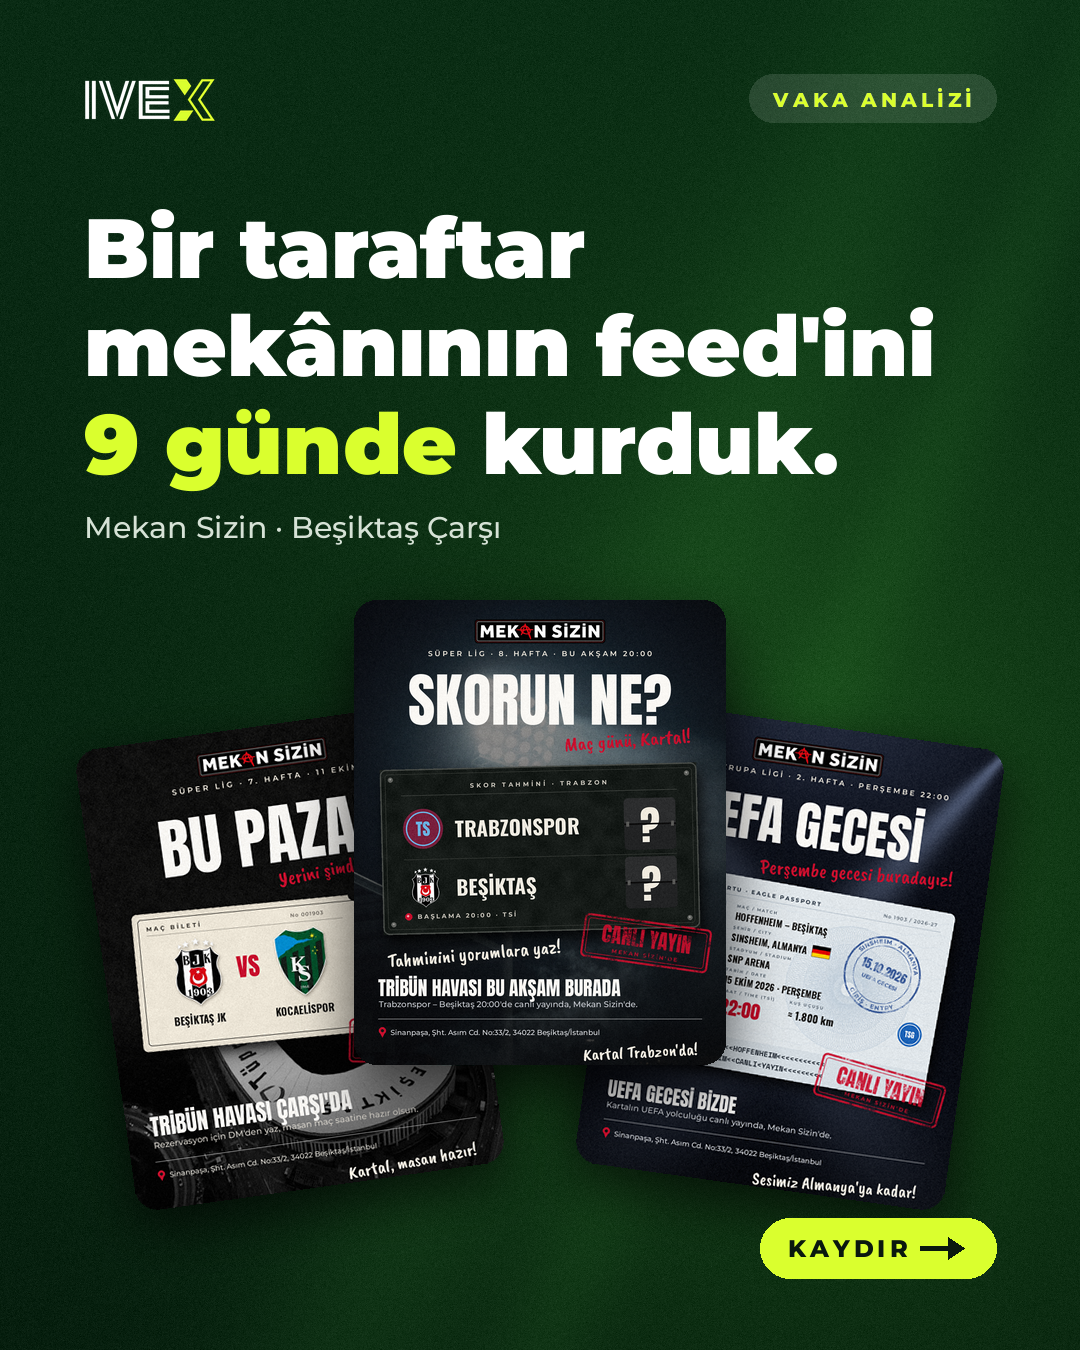
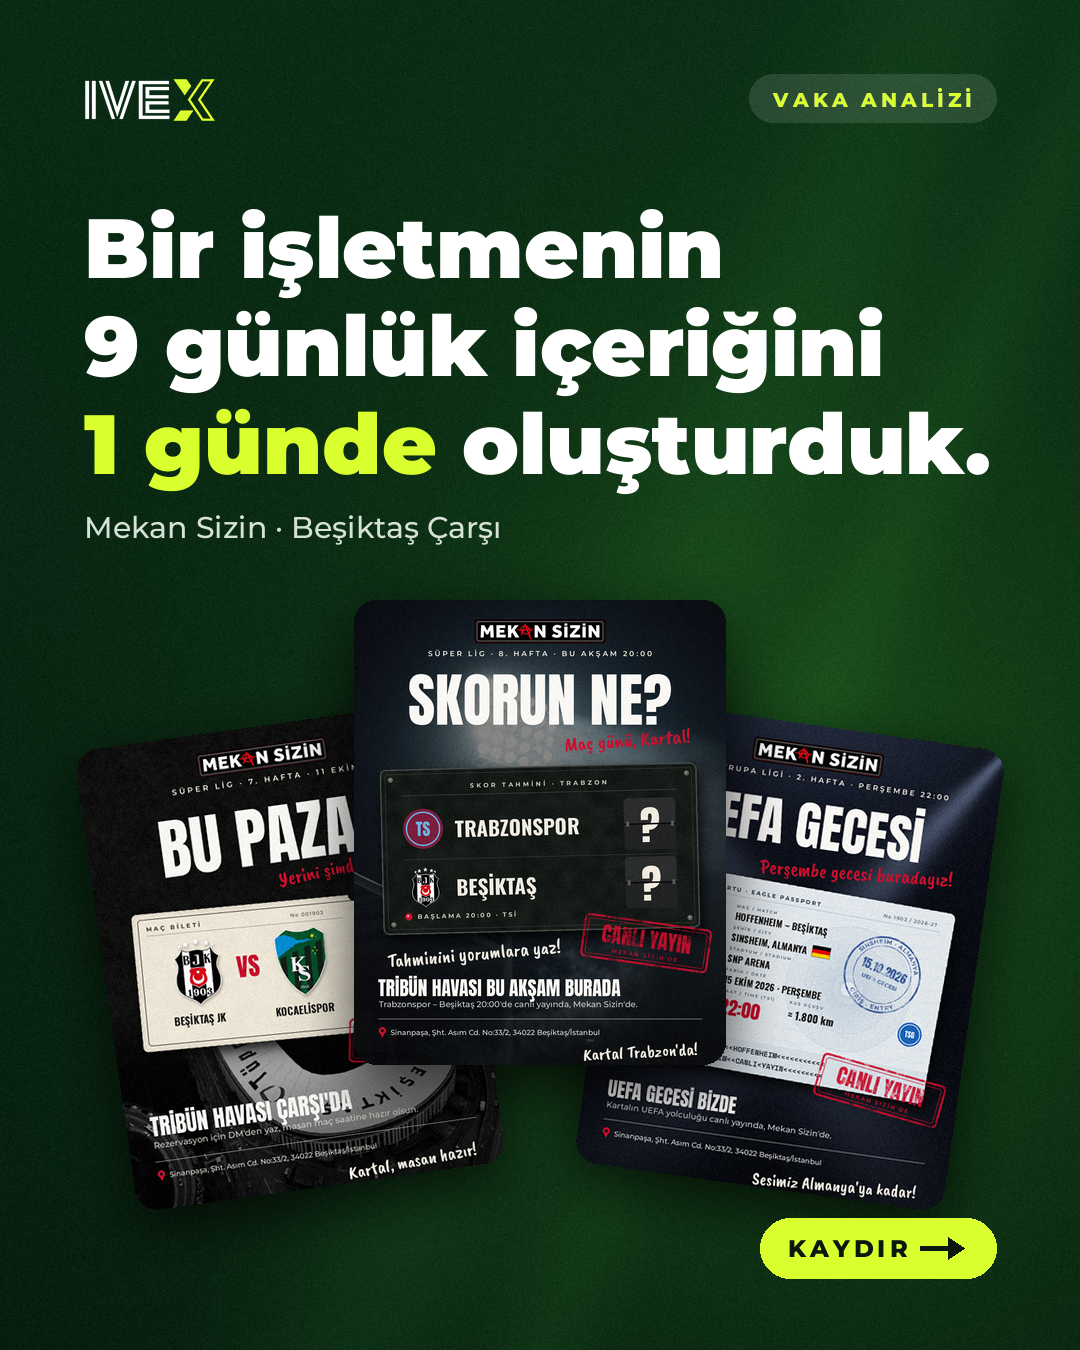
Retitle the IVEX case-study carousel cover
The cover now reads "Bir işletmenin 9 günlük içeriğini 1 günde oluşturduk.",
matching the day 3 Reels, and the day 2 caption opens the same way.

Claude-Session: https://claude.ai/code/session_01XJxz6TxayURknP2UowWRAx

Changed region(s): [[0.0611, 0.1556, 0.9167, 0.3733]]

diff --git a/ivex-icerik/PAYLASIM-PLANI.md b/ivex-icerik/PAYLASIM-PLANI.md
@@ -40,7 +40,7 @@ Kendi işletmen için ücretsiz 3 içerik fikri istiyorsan yorumlara "İÇERİK"
 ## Gün 2 – Karusel: Vaka analizi (Pazartesi 18:30)
 
 ```
-Bir taraftar mekânının feed'ini 9 günde nasıl kurduk? ⚫⚪
+Bir işletmenin 9 günlük içeriğini 1 günde nasıl oluşturduk? ⚫⚪
 
 Mekan Sizin, Beşiktaş Çarşı'da maç izlemenin adresi. Hedef netti: maç günleri masaları doldurmak.
 
